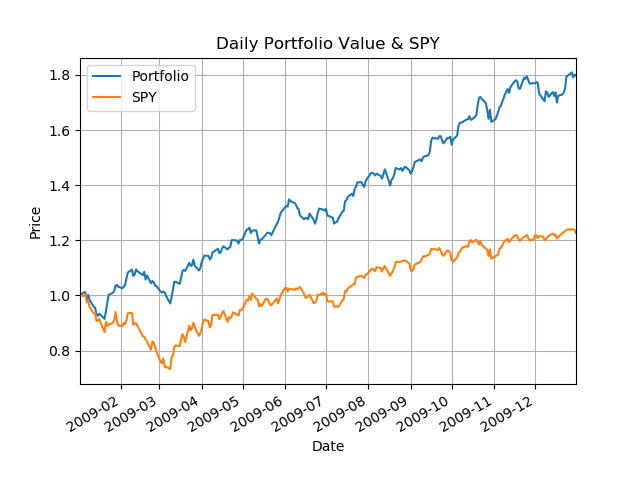
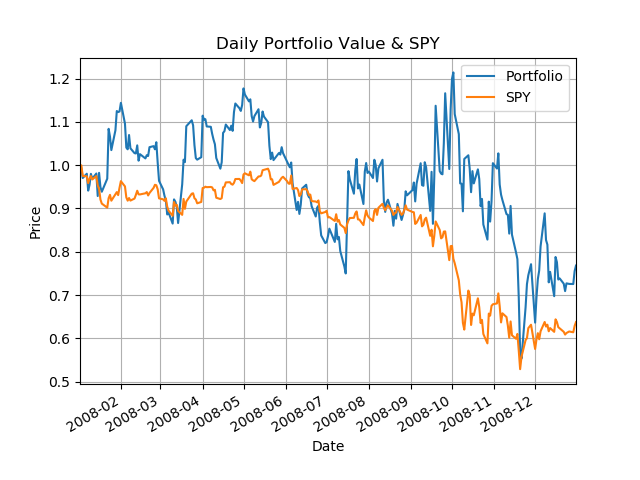
updates

diff --git a/optimize_something/optimization.py b/optimize_something/optimization.py
@@ -1,44 +1,45 @@
-"""MC1-P2: Optimize a portfolio.  		   	  			  	 		  		  		    	 		 		   		 		  
-  		   	  			  	 		  		  		    	 		 		   		 		  
-Copyright 2018, Georgia Institute of Technology (Georgia Tech)  		   	  			  	 		  		  		    	 		 		   		 		  
-Atlanta, Georgia 30332  		   	  			  	 		  		  		    	 		 		   		 		  
-All Rights Reserved  		   	  			  	 		  		  		    	 		 		   		 		  
-  		   	  			  	 		  		  		    	 		 		   		 		  
-Template code for CS 4646/7646  		   	  			  	 		  		  		    	 		 		   		 		  
-  		   	  			  	 		  		  		    	 		 		   		 		  
-Georgia Tech asserts copyright ownership of this template and all derivative  		   	  			  	 		  		  		    	 		 		   		 		  
-works, including solutions to the projects assigned in this course. Students  		   	  			  	 		  		  		    	 		 		   		 		  
-and other users of this template code are advised not to share it with others  		   	  			  	 		  		  		    	 		 		   		 		  
-or to make it available on publicly viewable websites including repositories  		   	  			  	 		  		  		    	 		 		   		 		  
-such as github and gitlab.  This copyright statement should not be removed  		   	  			  	 		  		  		    	 		 		   		 		  
-or edited.  		   	  			  	 		  		  		    	 		 		   		 		  
-  		   	  			  	 		  		  		    	 		 		   		 		  
-We do grant permission to share solutions privately with non-students such  		   	  			  	 		  		  		    	 		 		   		 		  
-as potential employers. However, sharing with other current or future  		   	  			  	 		  		  		    	 		 		   		 		  
-students of CS 7646 is prohibited and subject to being investigated as a  		   	  			  	 		  		  		    	 		 		   		 		  
-GT honor code violation.  		   	  			  	 		  		  		    	 		 		   		 		  
-  		   	  			  	 		  		  		    	 		 		   		 		  
------do not edit anything above this line---  		   	  			  	 		  		  		    	 		 		   		 		  
-  		   	  			  	 		  		  		    	 		 		   		 		  
+"""MC1-P2: Optimize a portfolio.
+
+Copyright 2018, Georgia Institute of Technology (Georgia Tech)
+Atlanta, Georgia 30332
+All Rights Reserved
+
+Template code for CS 4646/7646
+
+Georgia Tech asserts copyright ownership of this template and all derivative
+works, including solutions to the projects assigned in this course. Students
+and other users of this template code are advised not to share it with others
+or to make it available on publicly viewable websites including repositories
+such as github and gitlab.  This copyright statement should not be removed
+or edited.
+
+We do grant permission to share solutions privately with non-students such
+as potential employers. However, sharing with other current or future
+students of CS 7646 is prohibited and subject to being investigated as a
+GT honor code violation.
+
+-----do not edit anything above this line---
+
 Student Name: Divya Yagnamurthy (replace with your name)
 GT User ID: dyagnamurthy3 (replace with your User ID)
 GT ID: 903195460 (replace with your GT ID)
-"""  		   	  			  	 		  		  		    	 		 		   		 		  
-  		   	  			  	 		  		  		    	 		 		   		 		  
-  		   	  			  	 		  		  		    	 		 		   		 		  
-import pandas as pd  		   	  			  	 		  		  		    	 		 		   		 		  
-import matplotlib.pyplot as plt  		   	  			  	 		  		  		    	 		 		   		 		  
-import numpy as np  		   	  			  	 		  		  		    	 		 		   		 		  
-import datetime as dt  		   	  			  	 		  		  		    	 		 		   		 		  
+"""
+
+
+import pandas as pd
+import matplotlib.pyplot as plt
+import numpy as np
+import math
+import datetime as dt
 from util import get_data, plot_data
 import scipy.optimize as spo
 
-# This is the function that will be tested by the autograder  		   	  			  	 		  		  		    	 		 		   		 		  
-# The student must update this code to properly implement the functionality  		   	  			  	 		  		  		    	 		 		   		 		  
+# This is the function that will be tested by the autograder
+# The student must update this code to properly implement the functionality
 def optimize_portfolio(sd=dt.datetime(2008,1,1), ed=dt.datetime(2009,1,1), \
-    syms=['GOOG','AAPL','GLD','XOM'], gen_plot=True):
-  		   	  			  	 		  		  		    	 		 		   		 		  
-    # Read in adjusted closing prices for given symbols, date range  		   	  			  	 		  		  		    	 		 		   		 		  
+    syms=['GOOG','AAPL','GLD','XOM'], gen_plot=False):
+
+    # Read in adjusted closing prices for given symbols, date range
     dates = pd.date_range(sd, ed)
     prices_all = get_data(syms, dates)  # automatically adds SPY
     prices_all.fillna(method="ffill", inplace=True)
@@ -48,28 +49,28 @@ def optimize_portfolio(sd=dt.datetime(2008,1,1), ed=dt.datetime(2009,1,1), \
     prices_SPY = prices_all['SPY']  # only SPY, for comparison later
     norm_SPY = prices_SPY / prices_SPY.iloc[0]
 
-    alloc_guesses = np.asarray([1.0/len(syms)] * len(syms))
-    # find the allocations for the optimal portfolio  		   	  			  	 		  		  		    	 		 		   		 		  
+    alloc = np.asarray([1.0/len(syms)] * len(syms))
+    # find the allocations for the optimal portfolio
     # note that the values here ARE NOT meant to be correct for a test case
     bounds = [(0.0, 1.0)] * len(syms)
     constraint = {'type': 'eq', 'fun': lambda inputs: 1.0- np.sum(inputs)}
-    optimizer = spo.minimize(sharpe_func, alloc_guesses, args=(norm_prices, ), method='SLSQP', options={'disp':True}, bounds=bounds, constraints=constraint)
+    optimizer = spo.minimize(sharpe_func, alloc, args=(norm_prices, ), method='SLSQP', options={'disp':True}, bounds=bounds, constraints=constraint)
     allocs = optimizer.x # add code here to find the allocations
     # cr, adr, sddr, sr = [0.25, 0.001, 0.0005, 2.1] # add code here to compute stats
 
     allocated = norm_prices * allocs
     port_val = allocated.sum(axis=1)
-    dailyReturn = dailyReturns(port_val)
+    returnVal = dailyReturns(port_val)
     cr = (port_val[-1]/port_val[0]) - 1
-    adr = dailyReturn.mean()
-    sddr = dailyReturn.std()
-    sr = np.math.sqrt(252) * (adr / sddr)
-    # Get daily portfolio value  		   	  			  	 		  		  		    	 		 		   		 		  
+    adr = returnVal.mean()
+    sddr = returnVal.std()
+    sr = math.sqrt(252) * (adr / sddr)
+    # Get daily portfolio value
     # port_val = prices_SPY # add code here to compute daily portfolio values
-  		   	  			  	 		  		  		    	 		 		   		 		  
-    # Compare daily portfolio value with SPY using a normalized plot  		   	  			  	 		  		  		    	 		 		   		 		  
+
+    # Compare daily portfolio value with SPY using a normalized plot
     if gen_plot:
-        # add code to plot here  		   	  			  	 		  		  		    	 		 		   		 		  
+        # add code to plot here
         df_temp = pd.concat([port_val, norm_SPY], keys=['Portfolio', 'SPY'], axis=1)
         df_temp.plot()
         plt.grid()
@@ -81,51 +82,51 @@ def optimize_portfolio(sd=dt.datetime(2008,1,1), ed=dt.datetime(2009,1,1), \
 
     return allocs, cr, adr, sddr, sr
 
-def sharpe_func(alloc_guesses, norm_prices):
-    allocated = norm_prices * alloc_guesses
-    portVal = allocated.sum(axis=1)
+def sharpe_func(alloc, norm_prices):
+    allocated = norm_prices * alloc
+    portfolio = allocated.sum(axis=1)
 
-    daily_returns = dailyReturns(portVal)
+    daily_returns = dailyReturns(portfolio)
 
-    sr = np.math.sqrt(252) * (daily_returns.mean() / daily_returns.std())
+    sr = math.sqrt(252) * (daily_returns.mean() / daily_returns.std())
     return(sr*-1)
 
-def dailyReturns(portVal):
-    dR = portVal.copy()
-    dR[1:] = (portVal[1:]/portVal[:-1].values) -1
+def dailyReturns(portfolio):
+    dR = portfolio.copy()
+    dR[1:] = (portfolio[1:]/portfolio[:-1].values) -1
     dR.iloc[0] = 0
     dR = dR[1:]
     return dR
-  		   	  			  	 		  		  		    	 		 		   		 		  
-def test_code():  		   	  			  	 		  		  		    	 		 		   		 		  
-    # This function WILL NOT be called by the auto grader  		   	  			  	 		  		  		    	 		 		   		 		  
-    # Do not assume that any variables defined here are available to your function/code  		   	  			  	 		  		  		    	 		 		   		 		  
-    # It is only here to help you set up and test your code  		   	  			  	 		  		  		    	 		 		   		 		  
-  		   	  			  	 		  		  		    	 		 		   		 		  
-    # Define input parameters  		   	  			  	 		  		  		    	 		 		   		 		  
-    # Note that ALL of these values will be set to different values by  		   	  			  	 		  		  		    	 		 		   		 		  
-    # the autograder!  		   	  			  	 		  		  		    	 		 		   		 		  
-  		   	  			  	 		  		  		    	 		 		   		 		  
-    start_date = dt.datetime(2009,1,1)  		   	  			  	 		  		  		    	 		 		   		 		  
-    end_date = dt.datetime(2010,1,1)  		   	  			  	 		  		  		    	 		 		   		 		  
-    symbols = ['GOOG', 'AAPL', 'GLD', 'XOM', 'IBM']  		   	  			  	 		  		  		    	 		 		   		 		  
-  		   	  			  	 		  		  		    	 		 		   		 		  
-    # Assess the portfolio  		   	  			  	 		  		  		    	 		 		   		 		  
+
+def test_code():
+    # This function WILL NOT be called by the auto grader
+    # Do not assume that any variables defined here are available to your function/code
+    # It is only here to help you set up and test your code
+
+    # Define input parameters
+    # Note that ALL of these values will be set to different values by
+    # the autograder!
+
+    start_date = dt.datetime(2008,1,1)
+    end_date = dt.datetime(2009,1,1)
+    symbols = ['IBM', 'X', 'GLD', 'JPM']
+
+    # Assess the portfolio
     allocations, cr, adr, sddr, sr = optimize_portfolio(sd = start_date, ed = end_date,\
         syms = symbols, \
         gen_plot = True)
-  		   	  			  	 		  		  		    	 		 		   		 		  
-    # Print statistics  		   	  			  	 		  		  		    	 		 		   		 		  
-    # print(f"Start Date: {start_date}")
-    # print(f"End Date: {end_date}")
-    # print(f"Symbols: {symbols}")
-    # print(f"Allocations:{allocations}")
-    # print(f"Sharpe Ratio: {sr}")
-    # print(f"Volatility (stdev of daily returns): {sddr}")
-    # print(f"Average Daily Return: {adr}")
-    # print(f"Cumulative Return: {cr}")
-  		   	  			  	 		  		  		    	 		 		   		 		  
+
+    # Print statistics
+    print(f"Start Date: {start_date}")
+    print(f"End Date: {end_date}")
+    print(f"Symbols: {symbols}")
+    print(f"Allocations:{allocations}")
+    print(f"Sharpe Ratio: {sr}")
+    print(f"Volatility (stdev of daily returns): {sddr}")
+    print(f"Average Daily Return: {adr}")
+    print(f"Cumulative Return: {cr}")
+
 if __name__ == "__main__":
-    # This code WILL NOT be called by the auto grader  		   	  			  	 		  		  		    	 		 		   		 		  
-    # Do not assume that it will be called  		   	  			  	 		  		  		    	 		 		   		 		  
-    test_code()  		   	  			  	 		  		  		    	 		 		   		 		  
+    # This code WILL NOT be called by the auto grader
+    # Do not assume that it will be called
+    test_code()
